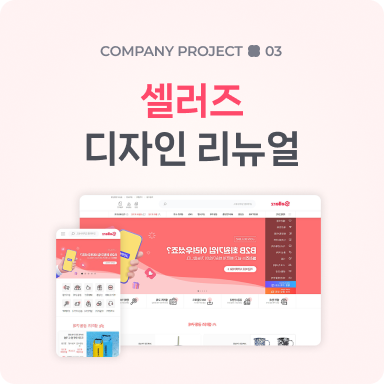
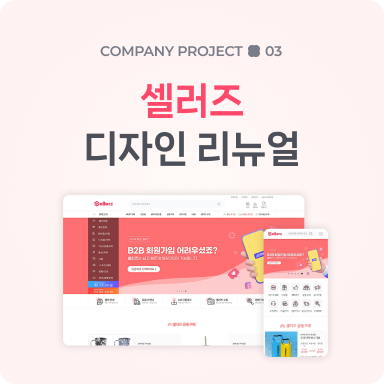
1004

Changed region(s): [[0.125, 0.5, 0.875, 0.9375], [0.4375, 0.8438, 0.5625, 0.9062]]

diff --git a/sub/hustar.html b/sub/hustar.html
@@ -130,13 +130,13 @@
             </p>
             <div class="border_dashed inner"></div>
             <p class="project_function inner">
-                <img src="../public/images/main_icon_2.svg" alt=""> 웹진 바로보기 : <a href="" target="_blank">1호</a> <a href="" target="_blank">2호</a> <a href="" target="_blank">3호</a> <a href="" target="_blank">4호</a> <a href="" target="_blank">5호</a> <a href="" target="_blank">6호</a> <a href="" target="_blank">7호</a> <a href="" target="_blank">8호</a> <a href="" target="_blank">9호</a> <a href="" target="_blank">10호</a> <a href="" target="_blank">11호</a>
+                <img src="../public/images/main_icon_2.svg" alt=""> 웹진 바로보기 : <a href="http://hustar.cafe24.com/index.html?no=4" target="_blank">1호</a> <a href="http://hustar.cafe24.com/index.html?no=9" target="_blank">2호</a> <a href="http://hustar.cafe24.com/index.html?no=10" target="_blank">3호</a> <a href="http://hustar.cafe24.com/index.html?no=11" target="_blank">4호</a> <a href="http://hustar.cafe24.com/index.html?no=12" target="_blank">5호</a> <a href="http://hustar.cafe24.com/index.html?no=13" target="_blank">6호</a> <a href="http://hustar.cafe24.com/index.html?no=15" target="_blank">7호</a> <a href="http://hustar.cafe24.com/index.html?no=16" target="_blank">8호</a> <a href="http://hustar.cafe24.com/index.html?no=17" target="_blank">9호</a> <a href="http://hustar.cafe24.com/index.html?no=23" target="_blank">10호</a> <a href="http://hustar.cafe24.com/index.html?no=24" target="_blank">11호</a>
             </p>
             <div class="sub_btn">
                 <a href="../index.html#tab1" class="back_btn">
                     뒤로가기
                 </a>
-                <a href="http://hustar.cafe24.com../index.html?no=24" target="_blank" class="site_more">
+                <a href="http://hustar.cafe24.com/index.html?no=24" target="_blank" class="site_more">
                     사이트 바로가기
                 </a>
             </div>

diff --git a/sub/dalseo_poster.html b/sub/dalseo_poster.html
@@ -87,7 +87,7 @@
                 <span class="project_company">
                     COMPANY PROJECT <img src="../public/images/main_icon_2.svg" alt=""> 11
                 </span>
-                <a href="../index.html#main_project" class="porject_close">닫기 <img src="../public/images/close_icon.svg" alt=""></a>
+                <a href="../index.html#tab3" class="porject_close">닫기 <img src="../public/images/close_icon.svg" alt=""></a>
             </div>
             <div class="project_tit_list">
                 <span class="project_tit">
@@ -124,11 +124,12 @@
                 </div>
             </div>
             <p class="project_cont_txt inner">
-                신청 및 홍보 위주의 사이트이기 때문에 포스터(이미지)가 돋보이고 신청 하기 쉽고 깔끔한 레이아웃으로 디자인 하였습니다. <br>
-                jQuery 뭔가 언어를 썼다는 의미로 적어야하는거같음..?
+                달서구 청년센터의 커피머신을 사용하는 방법에 대한 포스터를 제작하였습니다. 규격은 A1이며, 스노우지를 사용하여 포스터를 출력하였습니다.
+                커피머신 조작법이 방문자가 사용하기에 어려움이 있어 제작하게 되었으며, 커피머신을 사용하는 방법을 직접 이미지로 촬영하여 제작하였습니다.
+                깔끔하고 심플한 레이아웃을 요청해 주셔서 그에 맞게 제작하였습니다.
             </p>
             <div class="sub_btn">
-                <a href="../index.html#main_project" class="back_btn">
+                <a href="../index.html#tab3" class="back_btn">
                     뒤로가기
                 </a>
             </div>

diff --git a/sub/daegu_edu.html b/sub/daegu_edu.html
@@ -129,9 +129,9 @@
             </div>
             <p class="project_cont_txt inner">
                 대구광역시 교육청에서 진행하는 다:행복한 대구교육 캠페인을 홍보하는 사이트입니다.
-                캠페인 로고의 RED, BLUE 색상과 캠페인 엠블럼을 패턴으로 활용하는 등 캠페인 디자인을 기반으로 디자인 하였습니다. 
-                해당 사이트에서 중요한 사항인 '학부모 선언문'을 메인 상단에 팝업으로 띄워 접속한 사용자 모두가 볼 수 있게 작업 하였습니다.
-                캠페인 슬로건을 강조하기 위해 상단에 띠배너 형식으로 배치하는 등 클라이언트의 요구사항을 적절히 반영 하였습니다.
+                캠페인 로고의 RED, BLUE 색상과 캠페인 엠블럼을 패턴으로 활용하는 등 캠페인 디자인을 기반으로 디자인하였습니다. 
+                해당 사이트에서 중요한 사항인 '학부모 선언문'을 메인 상단에 팝업으로 띄워 접속한 사용자 모두가 볼 수 있게 작업하였습니다.
+                캠페인 슬로건을 강조하기 위해 상단에 띠배너 형식으로 배치하는 등 클라이언트의 요구사항을 적절히 반영하였습니다.
             </p>
             <div class="border_dashed inner"></div>
             <!-- PHP 기반 CMS : 그누보드 -->

diff --git a/sub/red_ginseng.html b/sub/red_ginseng.html
@@ -125,7 +125,7 @@
             </div>
             <p class="project_cont_txt inner">
                 <a href="https://product.29cm.co.kr/catalog/587078" target="_blank">기존 상세페이지</a>는 깔끔하다는 장점이 있지만 구매자 관점에 대한 분석이 부족해 보이는 느낌을 받았습니다. 
-                홍삼주와 같은 전통주는 선물용으로 구매하는 경우가 많기 때문에 고급스러움과 전통적인 분위기를 주고자 하였고, 홍삼의 효능과 충북 괴산 5년근 홍삼만 사용하는 부분을 강조하였습니다.
+                홍삼주와 같은 전통주는 선물용으로 구매하는 경우가 많기 때문에 고급스러움과 전통적인 분위기를 주고자 하였고, 홍삼의 효능과 충북 괴산 5년 근 홍삼만 사용하는 부분을 강조하였습니다.
                 선물용 전통주는 패키지와 구성품이 고급스럽기 때문에 사진을 위주로 구성하여 상품을 강조하는 레이아웃으로 제작하였습니다. 
             </p>
             <div class="sub_btn">

diff --git a/sub/donggu_edu.html b/sub/donggu_edu.html
@@ -145,8 +145,8 @@
                 </div>
             </div>
             <p class="project_cont_txt inner">
-                CSS 문법인 webkit을 사용하여 safari 브라우저의 기본 스타일을 삭제하는 등 웹 표준성을 준수하여 퍼블리싱 하였습니다. 
-                일반회원과 강사회원을 각 분리하여 관리 하도록 개발하였으며 SSO(카카오, 페이스북) 로그인이 가능할 수 있게 설정하였습니다.
+                CSS 문법인 webkit을 사용하여 safari 브라우저의 기본 스타일을 삭제하는 등 웹 표준성을 준수하여 퍼블리싱하였습니다. 
+                일반회원과 강사회원을 각 분리하여 관리하도록 개발하였으며 SSO(카카오, 페이스북) 로그인이 가능할 수 있게 설정하였습니다.
                 또한, 이메일 회원가입이 아닌 아이핀 및 본인인증 기능을 통해 회원가입 신청할 수 있게 하여 중복 회원가입 방지하였습니다.
             </p>
             <!-- / 회원정보 페이지 -->

diff --git a/sub/sellerz_sns.html b/sub/sellerz_sns.html
@@ -125,7 +125,7 @@
             </div>
             <p class="project_cont_txt inner">
                 셀러즈 사이트 유입률을 목적으로 인스타그램 운영을 시작하였습니다. 
-                드랍쉬핑(위탁판매)은 조사할 내용이 많기 때문에 시작하기 전에 어떤 부분을 준비해야하는 지에 대해 카드뉴스로 표현하여 사용자에게 제공합니다.
+                드랍쉬핑(위탁판매)은 조사할 내용이 많기 때문에 시작하기 전에 어떤 부분을 준비해야 하는지에 대해 카드뉴스로 표현하여 사용자에게 제공합니다.
                 쿠팡, 네이버스마트스토어, 온라인 판매, 셀러즈에 대한 내용 총 4가지를 주제로 카드뉴스를 제작하였으며 해당 내용은 마케터와 함께 기획하였습니다.
                 템플릿을 제작하여 상황에 따라 내용을 변경하는 방법으로 카드뉴스 제작을 하였고 3개월마다 템플릿을 변경하여 인스타그램을 운영하였습니다.
             </p>

diff --git a/sub/neoroutine_leflet.html b/sub/neoroutine_leflet.html
@@ -127,8 +127,9 @@
                 </div>
             </div>
             <p class="project_cont_txt inner">
-                신청 및 홍보 위주의 사이트이기 때문에 포스터(이미지)가 돋보이고 신청 하기 쉽고 깔끔한 레이아웃으로 디자인 하였습니다. <br>
-                jQuery 뭔가 언어를 썼다는 의미로 적어야하는거같음..?
+                사용자 맞춤형 베개인 rollfit 사용법에 대한 리플렛입니다. 
+                사용방법에 대한 영상 QR코드 및 제품 구성, 일러스트로 나타낸 사용방법 등 사용자가 다양한 방법으로 베개를 사용할 수 있게 여러 가지 방안을 제공하였습니다.
+                클라이언트의 요청으로 심플하면서 직관적으로 보일 수 있게 레이아웃을 구성하였으며, 네오루틴 로고 색상인 하늘색을 활용하여 리플렛을 제작하였습니다.
             </p>
             <div class="sub_btn">
                 <a href="../index.html#tab3" class="back_btn">

diff --git a/sub/dalseo.html b/sub/dalseo.html
@@ -147,9 +147,9 @@
                 </div>
             </div>
             <p class="project_cont_txt inner">
-                달서구 청년센터의 공간을 대관해 주는 기능 개발할 때, 사용자 편의성을 위해 캘린더 형식으로 퍼블리싱 하였습니다.
+                달서구 청년센터의 공간을 대관해 주는 기능 개발할 때, 사용자 편의성을 위해 캘린더 형식으로 퍼블리싱하였습니다.
                 또한, 공간 선택과 신청 form을 각 페이지로 분리하여 복잡하지 않은 UI를 제공합니다.
-                figjam을 이용하여 팀원과 협업 할 수 있었으며 프로젝트를 보완하고 UI/UX를 향상할 수 있었습니다. 
+                figjam을 이용하여 팀원과 협업할 수 있었으며 프로젝트를 보완하고 UI/UX를 향상할 수 있었습니다. 
             </p>
             <!-- / 주요기능 : 공간대관 신청 -->
             <div class="sub_btn">

diff --git a/sub/sellerz.html b/sub/sellerz.html
@@ -129,8 +129,8 @@
             <p class="project_cont_txt inner">
                 셀러즈는 드랍쉬핑(위탁판매) 도매 사이트로, B2B형식의 쇼핑몰입니다. 
                 회원인 경우에만 가격을 확인할 수 있게 개발되었으며, 셀러와 공급사를 구분하여 관리하고 설정할 수 있게 작업되었습니다.
-                사용자 편의성을 위해 모바일 웹 추가 및 전반적인 디자인 리뉴얼 작업을 진행 하였습니다. 
-                해당 프로젝트 진행 후, 작월 비교 150% 이상의 매출이 상승 하였습니다.
+                사용자 편의성을 위해 모바일 웹 추가 및 전반적인 디자인 리뉴얼 작업을 진행하였습니다. 
+                해당 프로젝트 진행 후, 작월 비교 150% 이상의 매출이 상승하였습니다.
             </p>
             <div class="border_dashed inner"></div>
             <!-- POINT : 안내 페이지 디자인 -->

diff --git a/sub/dalseo_leflet.html b/sub/dalseo_leflet.html
@@ -127,8 +127,9 @@
                 </div>
             </div>
             <p class="project_cont_txt inner">
-                신청 및 홍보 위주의 사이트이기 때문에 포스터(이미지)가 돋보이고 신청 하기 쉽고 깔끔한 레이아웃으로 디자인 하였습니다. <br>
-                jQuery 뭔가 언어를 썼다는 의미로 적어야하는거같음..?
+                클라이언트의 요청으로 달서구 청년센터 홈페이지의 분위기와 비슷하게 리플렛을 제작하였습니다. 
+                달서구 청년센터를 소개하는 리플렛이며, 정보가 많은 경우이기 때문에 심플한 레이아웃으로 리플렛을 제작하였습니다. 
+                메인 색상을 하늘색으로 지정하여 시원하면서 깔끔한 느낌을 주고자 하였습니다. 
             </p>
             <div class="sub_btn">
                 <a href="../index.html#tab3" class="back_btn">

diff --git a/sub/neosleep.html b/sub/neosleep.html
@@ -128,7 +128,7 @@
             </div>
             <p class="project_cont_txt inner">
                 neosleep은 맞춤형 베개를 판매하는 cafe24 플랫폼 기반의 쇼핑몰 사이트입니다.
-                베개를 통해 건강한 숙면과 일상을 가져다 주는 것이 neosleep의 핵심가치입니다.
+                베개를 통해 건강한 숙면과 일상을 가져다주는 것이 neosleep의 핵심가치입니다.
                 핵심가치를 강조하기 위해 감성적인 자연 사진과 편안한 숙면 사진을 선택하고 사진 위주의 레이아웃으로 사이트 디자인을 하였습니다.
                 베개의 높낮이를 쉽게 조절하여 원하는 높이에 맞게 만들 수 있기 때문에 해당 내용을 강조하였습니다. 
                 상품 소개와 동시에 상품을 판매할 수 있게 cafe24 플랫폼을 활용하여 사이트를 제작하였습니다.

diff --git a/sub/tamnanet.html b/sub/tamnanet.html
@@ -130,7 +130,7 @@
             <p class="project_cont_txt inner">
                 탐나넷은 인터넷 가입 및 설치 신청하는 사이트입니다.
                 상담 신청이 주된 목적이기 때문에 모든 페이지에 상담 신청으로 이동할 수 있게 상담 신청 버튼을 배치하여 디자인하였습니다.
-                사용자는 빠르고 쉽게 동작하는 것을 원하기 때문에 이름과 휴대폰번호만 작성해도 상담 접수가 완료 되도록 하였습니다.
+                사용자는 빠르고 쉽게 동작하는 것을 원하기 때문에 이름과 휴대폰번호만 작성해도 상담 접수가 완료되도록 하였습니다.
                 또한, 자세하게 비교를 원하는 사용자를 위해 신청서 작성 페이지를 추가하여 상담 접수할 수 있게 사이트를 제작하였습니다.
             </p>
             <div class="sub_btn">
